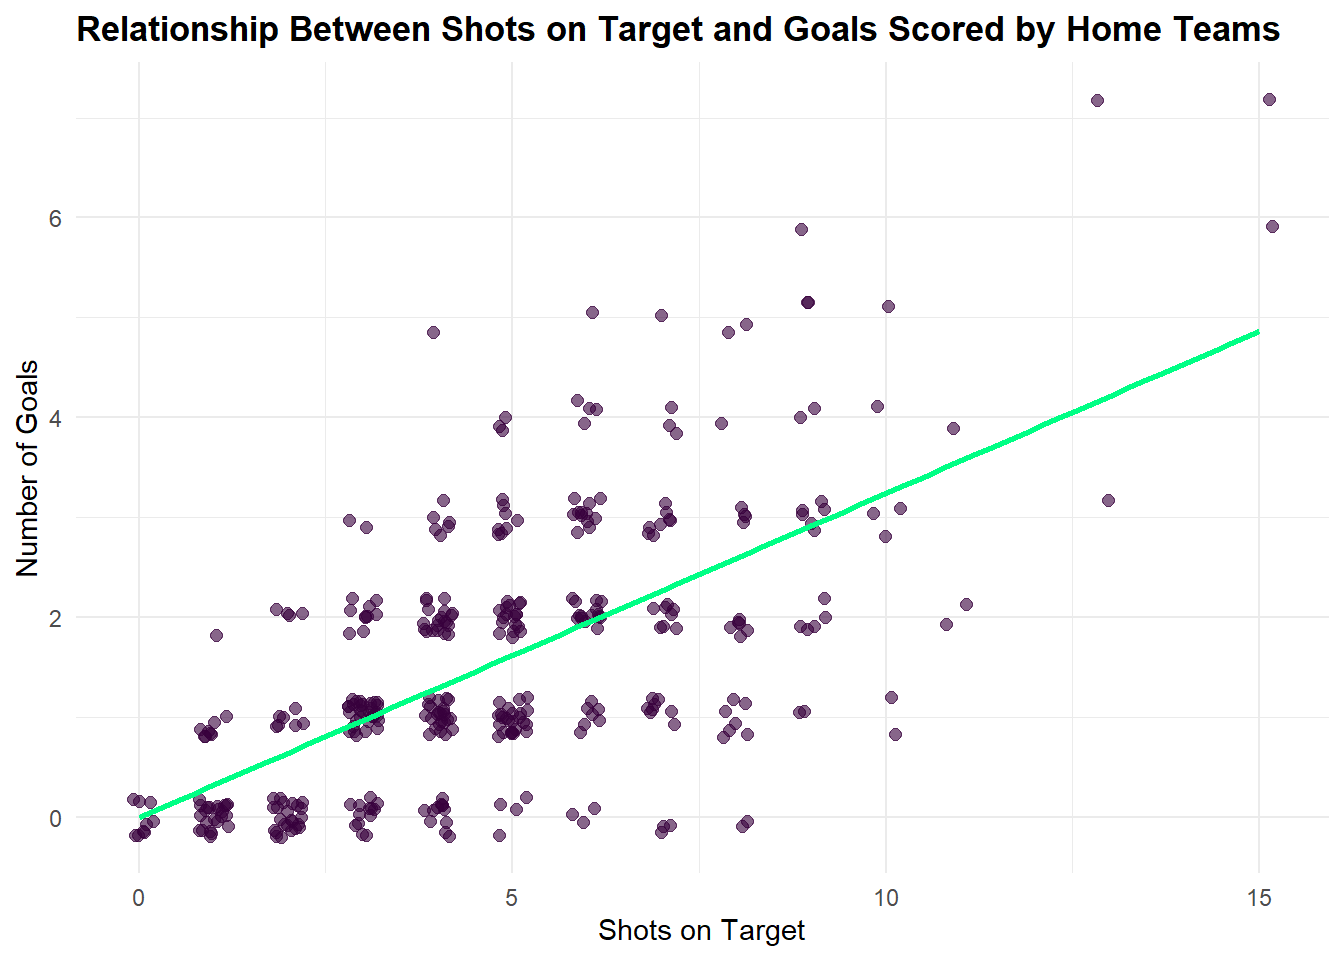
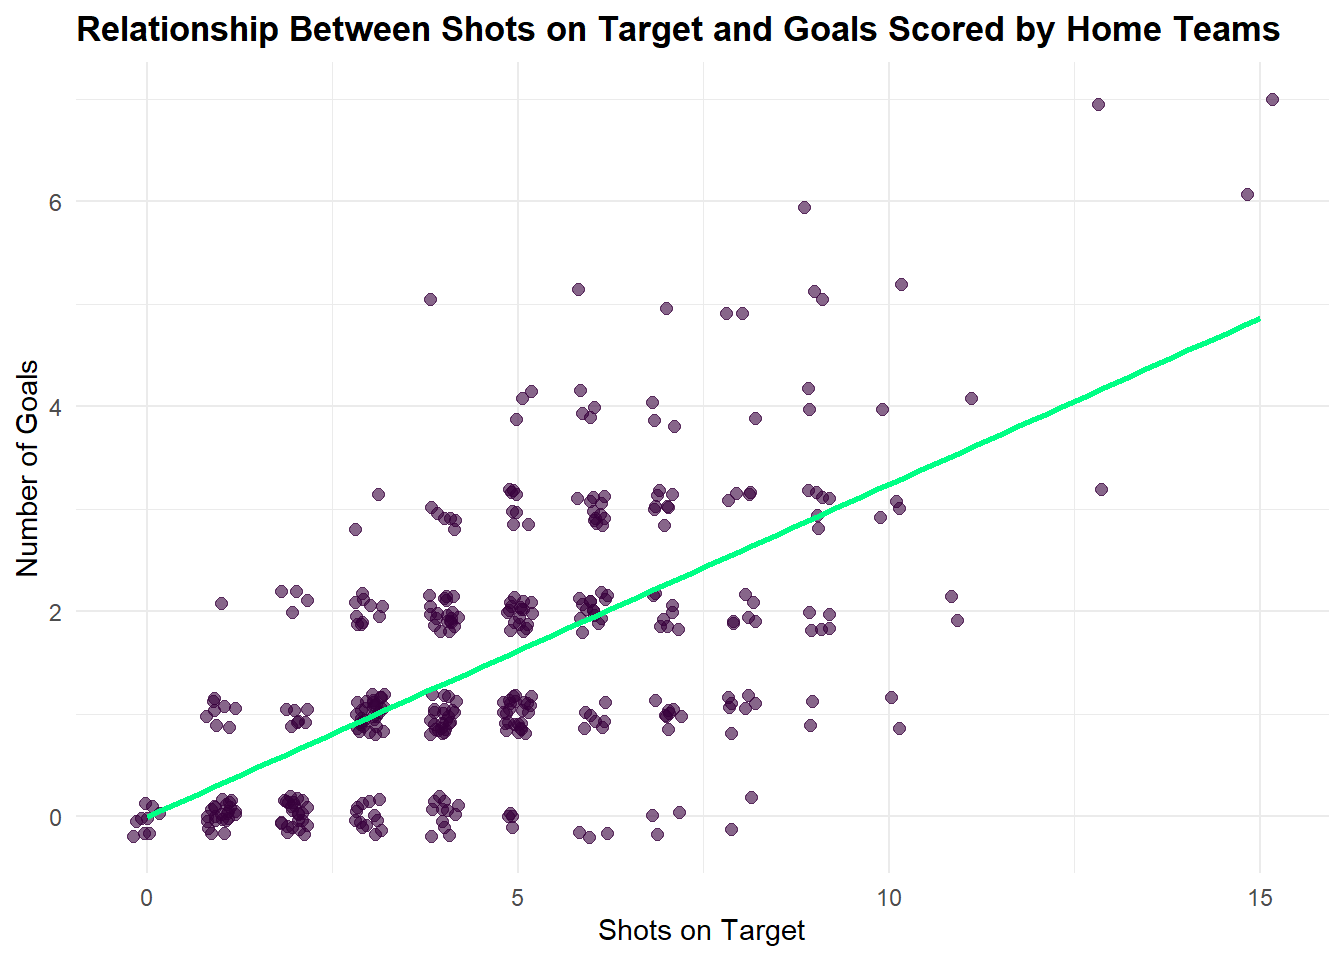
reorder

diff --git a/docs/Netflix Shows And Movies Analysis.html b/docs/Netflix Shows And Movies Analysis.html
@@ -273,32 +273,16 @@ ul.task-list li input[type="checkbox"] {
     </a>
     <ul class="dropdown-menu" aria-labelledby="nav-menu-projects">    
         <li>
+    <a class="dropdown-item" href="./ghana-dashboard.html">
+ <span class="dropdown-text">Ghana Macroeconomic Dashboard</span></a>
+  </li>  
+        <li>
     <a class="dropdown-item" href="./Netflix Shows And Movies Analysis.html">
  <span class="dropdown-text">Netflix Shows And Movies Analysis</span></a>
   </li>  
         <li>
     <a class="dropdown-item" href="./Premier League Match Analysis.html">
  <span class="dropdown-text">Premier League Match Analysis</span></a>
-  </li>  
-        <li>
-    <a class="dropdown-item" href="./SAFI_Data Survey Analysis.qmd">
- <span class="dropdown-text">SAFI Data Survey Analysis</span></a>
-  </li>  
-        <li>
-    <a class="dropdown-item" href="./Project 3.html">
- <span class="dropdown-text">Birth Count Analysis</span></a>
-  </li>  
-        <li>
-    <a class="dropdown-item" href="./SQL WAI Analysis.html">
- <span class="dropdown-text">SQL WAI Analysis</span></a>
-  </li>  
-        <li>
-    <a class="dropdown-item" href="./Netflix Analysis(Extended).html">
- <span class="dropdown-text">Netflix Analysis Slides</span></a>
-  </li>  
-        <li>
-    <a class="dropdown-item" href="./ghana-dashboard.html">
- <span class="dropdown-text">Ghana Macroeconomic Dashboard</span></a>
   </li>  
     </ul>
   </li>

diff --git a/docs/Premier League Match Analysis.html b/docs/Premier League Match Analysis.html
@@ -275,32 +275,16 @@ ul.task-list li input[type="checkbox"] {
     </a>
     <ul class="dropdown-menu" aria-labelledby="nav-menu-projects">    
         <li>
+    <a class="dropdown-item" href="./ghana-dashboard.html">
+ <span class="dropdown-text">Ghana Macroeconomic Dashboard</span></a>
+  </li>  
+        <li>
     <a class="dropdown-item" href="./Netflix Shows And Movies Analysis.html">
  <span class="dropdown-text">Netflix Shows And Movies Analysis</span></a>
   </li>  
         <li>
     <a class="dropdown-item" href="./Premier League Match Analysis.html">
  <span class="dropdown-text">Premier League Match Analysis</span></a>
-  </li>  
-        <li>
-    <a class="dropdown-item" href="./SAFI_Data Survey Analysis.qmd">
- <span class="dropdown-text">SAFI Data Survey Analysis</span></a>
-  </li>  
-        <li>
-    <a class="dropdown-item" href="./Project 3.html">
- <span class="dropdown-text">Birth Count Analysis</span></a>
-  </li>  
-        <li>
-    <a class="dropdown-item" href="./SQL WAI Analysis.html">
- <span class="dropdown-text">SQL WAI Analysis</span></a>
-  </li>  
-        <li>
-    <a class="dropdown-item" href="./Netflix Analysis(Extended).html">
- <span class="dropdown-text">Netflix Analysis Slides</span></a>
-  </li>  
-        <li>
-    <a class="dropdown-item" href="./ghana-dashboard.html">
- <span class="dropdown-text">Ghana Macroeconomic Dashboard</span></a>
   </li>  
     </ul>
   </li>

diff --git a/docs/about.html b/docs/about.html
@@ -272,32 +272,16 @@ ul.task-list li input[type="checkbox"] {
     </a>
     <ul class="dropdown-menu" aria-labelledby="nav-menu-projects">    
         <li>
+    <a class="dropdown-item" href="./ghana-dashboard.html">
+ <span class="dropdown-text">Ghana Macroeconomic Dashboard</span></a>
+  </li>  
+        <li>
     <a class="dropdown-item" href="./Netflix Shows And Movies Analysis.html">
  <span class="dropdown-text">Netflix Shows And Movies Analysis</span></a>
   </li>  
         <li>
     <a class="dropdown-item" href="./Premier League Match Analysis.html">
  <span class="dropdown-text">Premier League Match Analysis</span></a>
-  </li>  
-        <li>
-    <a class="dropdown-item" href="./SAFI_Data Survey Analysis.qmd">
- <span class="dropdown-text">SAFI Data Survey Analysis</span></a>
-  </li>  
-        <li>
-    <a class="dropdown-item" href="./Project 3.html">
- <span class="dropdown-text">Birth Count Analysis</span></a>
-  </li>  
-        <li>
-    <a class="dropdown-item" href="./SQL WAI Analysis.html">
- <span class="dropdown-text">SQL WAI Analysis</span></a>
-  </li>  
-        <li>
-    <a class="dropdown-item" href="./Netflix Analysis(Extended).html">
- <span class="dropdown-text">Netflix Analysis Slides</span></a>
-  </li>  
-        <li>
-    <a class="dropdown-item" href="./ghana-dashboard.html">
- <span class="dropdown-text">Ghana Macroeconomic Dashboard</span></a>
   </li>  
     </ul>
   </li>

diff --git a/docs/ghana-dashboard.html b/docs/ghana-dashboard.html
@@ -273,32 +273,16 @@ ul.task-list li input[type="checkbox"] {
     </a>
     <ul class="dropdown-menu" aria-labelledby="nav-menu-projects">    
         <li>
+    <a class="dropdown-item" href="./ghana-dashboard.html">
+ <span class="dropdown-text">Ghana Macroeconomic Dashboard</span></a>
+  </li>  
+        <li>
     <a class="dropdown-item" href="./Netflix Shows And Movies Analysis.html">
  <span class="dropdown-text">Netflix Shows And Movies Analysis</span></a>
   </li>  
         <li>
     <a class="dropdown-item" href="./Premier League Match Analysis.html">
  <span class="dropdown-text">Premier League Match Analysis</span></a>
-  </li>  
-        <li>
-    <a class="dropdown-item" href="./SAFI_Data Survey Analysis.qmd">
- <span class="dropdown-text">SAFI Data Survey Analysis</span></a>
-  </li>  
-        <li>
-    <a class="dropdown-item" href="./Project 3.html">
- <span class="dropdown-text">Birth Count Analysis</span></a>
-  </li>  
-        <li>
-    <a class="dropdown-item" href="./SQL WAI Analysis.html">
- <span class="dropdown-text">SQL WAI Analysis</span></a>
-  </li>  
-        <li>
-    <a class="dropdown-item" href="./Netflix Analysis(Extended).html">
- <span class="dropdown-text">Netflix Analysis Slides</span></a>
-  </li>  
-        <li>
-    <a class="dropdown-item" href="./ghana-dashboard.html">
- <span class="dropdown-text">Ghana Macroeconomic Dashboard</span></a>
   </li>  
     </ul>
   </li>

diff --git a/docs/index.html b/docs/index.html
@@ -271,32 +271,16 @@ ul.task-list li input[type="checkbox"] {
     </a>
     <ul class="dropdown-menu" aria-labelledby="nav-menu-projects">    
         <li>
+    <a class="dropdown-item" href="./ghana-dashboard.html">
+ <span class="dropdown-text">Ghana Macroeconomic Dashboard</span></a>
+  </li>  
+        <li>
     <a class="dropdown-item" href="./Netflix Shows And Movies Analysis.html">
  <span class="dropdown-text">Netflix Shows And Movies Analysis</span></a>
   </li>  
         <li>
     <a class="dropdown-item" href="./Premier League Match Analysis.html">
  <span class="dropdown-text">Premier League Match Analysis</span></a>
-  </li>  
-        <li>
-    <a class="dropdown-item" href="./SAFI_Data Survey Analysis.qmd">
- <span class="dropdown-text">SAFI Data Survey Analysis</span></a>
-  </li>  
-        <li>
-    <a class="dropdown-item" href="./Project 3.html">
- <span class="dropdown-text">Birth Count Analysis</span></a>
-  </li>  
-        <li>
-    <a class="dropdown-item" href="./SQL WAI Analysis.html">
- <span class="dropdown-text">SQL WAI Analysis</span></a>
-  </li>  
-        <li>
-    <a class="dropdown-item" href="./Netflix Analysis(Extended).html">
- <span class="dropdown-text">Netflix Analysis Slides</span></a>
-  </li>  
-        <li>
-    <a class="dropdown-item" href="./ghana-dashboard.html">
- <span class="dropdown-text">Ghana Macroeconomic Dashboard</span></a>
   </li>  
     </ul>
   </li>
